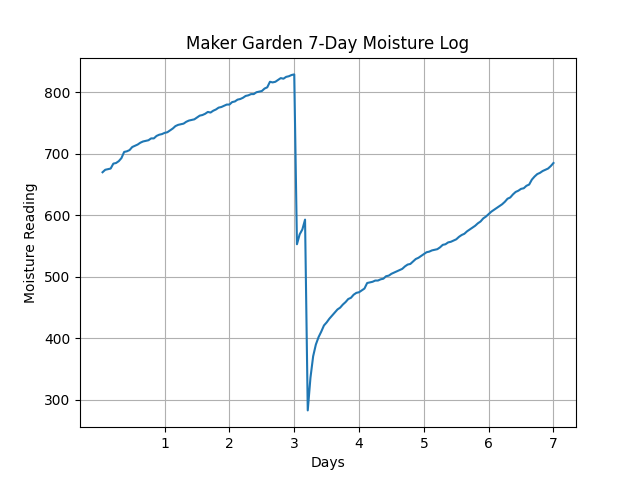
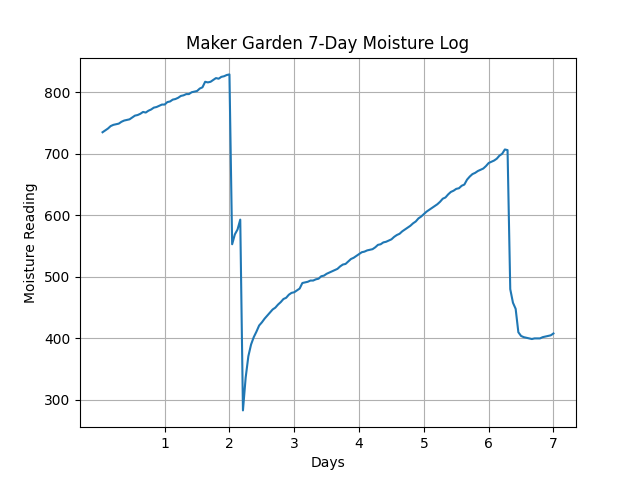
daily push

diff --git a/sprinkle.py b/sprinkle.py
@@ -2,7 +2,7 @@ import time
 import RPi.GPIO as GPIO
 
 PIN = 26
-DUR = 30
+DUR = 45
 
 GPIO.setmode(GPIO.BCM)
 GPIO.setup(PIN, GPIO.OUT)
